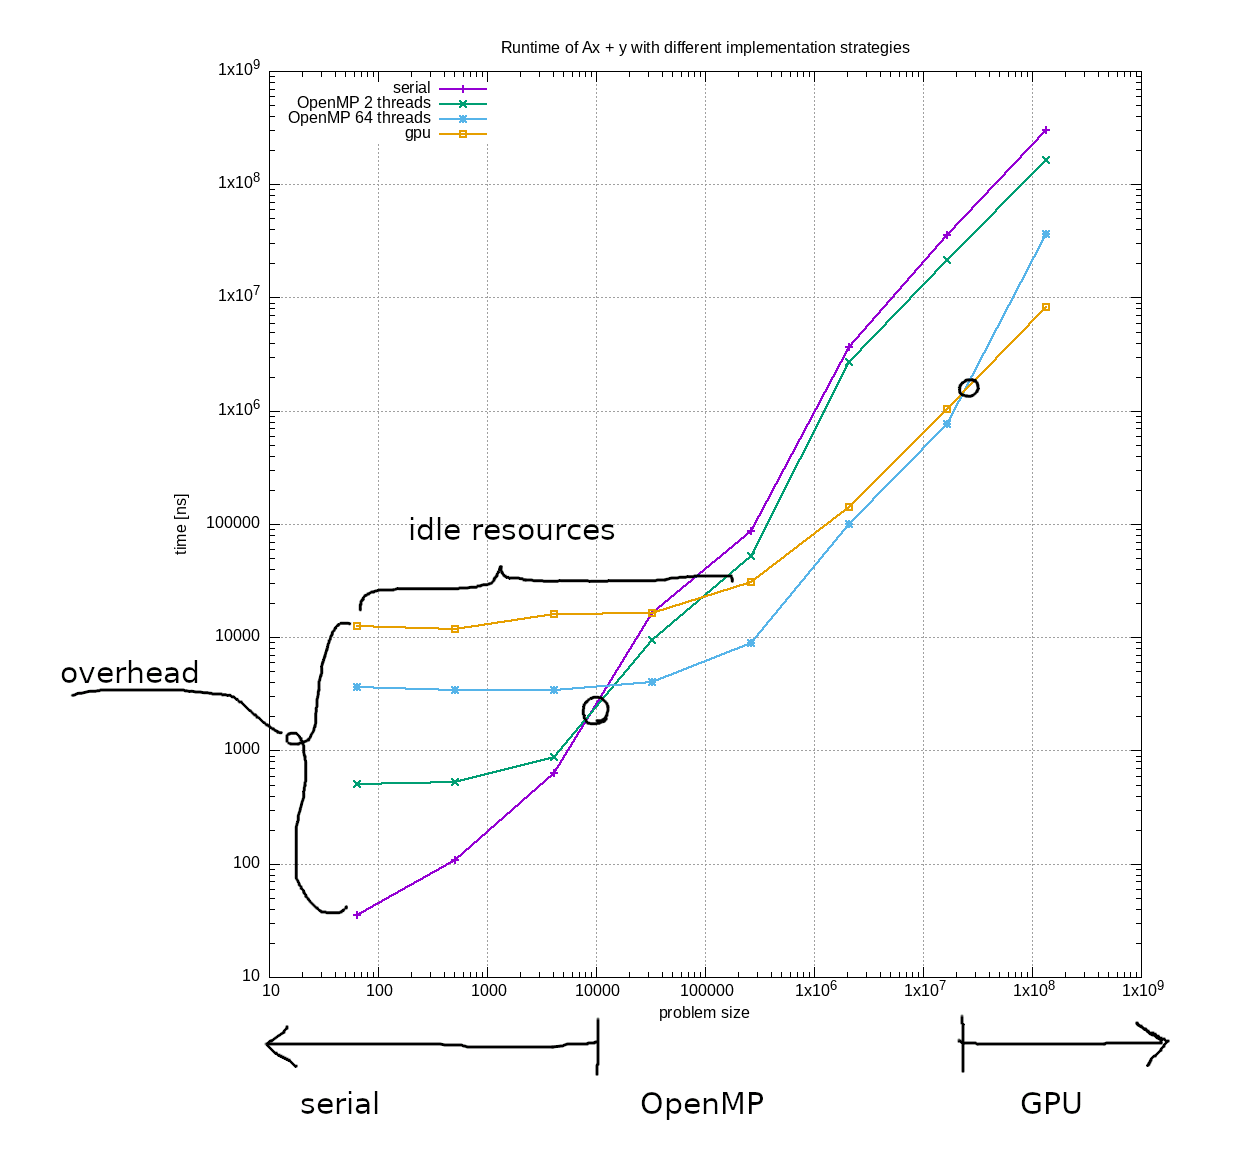
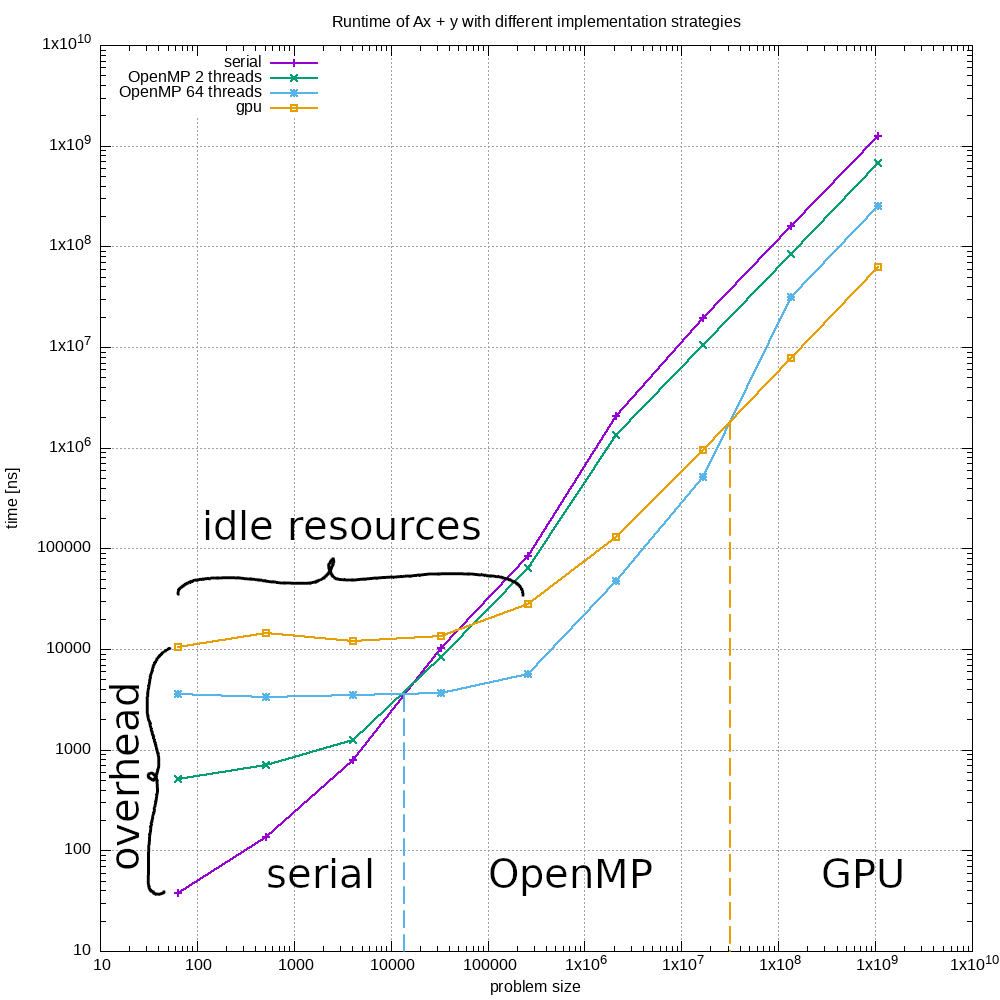
Change structure to allocate fewer times with GPU. Add printing to stderr so clang doensn't optimize out the calculations of the serialized version

diff --git a/application-performance/demos/idle_resources/common.h b/application-performance/demos/idle_resources/common.h
@@ -9,38 +9,54 @@
 #include <ratio>
 #include <vector>
 
-template <typename T> constexpr void saxpy(size_t i, T a, T *x, T *y) {
-    y[i] += a * x[i];
+template <typename T> constexpr void saxpy(size_t i, T a, T *x, T *y, T *r) {
+    r[i] = a * x[i] + y[i];
 }
 
-template <typename Func> void run(Func f) {
-    constexpr std::array ns{1 << 6,  1 << 9,  1 << 12, 1 << 15,
-                            1 << 18, 1 << 21, 1 << 24, 1 << 27};
-    constexpr auto max_n = *std::max_element(ns.begin(), ns.end());
-    std::vector<float> x(max_n);
-    std::vector<float> y(max_n);
-    constexpr float a = 2.3f;
-    constexpr float b = 1.1f;
-    constexpr float c = 3.4f;
+template <typename T> constexpr void init_x(size_t i, T *x) {
+    x[i] = (T)2.3 * sin(i);
+}
 
-    for (size_t i = 0; i < max_n; i++) {
-        x[i] = a * sin(i);
+template <typename T> constexpr void init_y(size_t i, T *y) {
+    y[i] = (T)1.1 * cos(i);
+}
+
+template <typename T> void init(size_t n, T *x, T *y) {
+    for (size_t i = 0; i < n; i++) {
+        init_x(i, x);
+        init_y(i, y);
     }
+}
+
+template <typename Allocate, typename Deallocate, typename Init, typename Func>
+void run(Allocate allocate, Deallocate deallocate, Init init, Func func) {
+    constexpr std::array ns{1 << 6,  1 << 9,  1 << 12, 1 << 15, 1 << 18,
+                            1 << 21, 1 << 24, 1 << 27, 1 << 30};
+    constexpr size_t max_n = *std::max_element(ns.begin(), ns.end());
+    constexpr size_t num_bytes = sizeof(float) * max_n;
+
+    float *const x = static_cast<float *>(allocate(num_bytes));
+    float *const y = static_cast<float *>(allocate(num_bytes));
+    float *const r = static_cast<float *>(allocate(num_bytes));
+    init(max_n, x, y);
 
     for (size_t n : ns) {
-        for (size_t i = 0; i < n; i++) {
-            y[i] = b * cos(i);
-        }
-
         constexpr auto n_iter = 20;
         size_t avg = 0;
-        for (uint32_t iteration = 0; iteration < n_iter; iteration++) {
-            const auto default_duration = f(n, c, x, y);
-            const std::chrono::duration<double, std::nano> dur =
-                default_duration;
+        for (auto iteration = 0; iteration < n_iter; iteration++) {
+            constexpr float a = 3.4f;
+            const auto start = std::chrono::high_resolution_clock::now();
+            func(n, a, x, y, r);
+            const auto end = std::chrono::high_resolution_clock::now();
+            const std::chrono::duration<double, std::nano> dur = end - start;
             avg += iteration == 0 ? 0 : dur.count();
         }
 
-        printf("%ld, %ld\n", n, avg / (n_iter - 1));
+        std::fprintf(stderr, "%f\n", r[n - 1]);
+        std::printf("%ld, %ld\n", n, avg / (n_iter - 1));
     }
+
+    deallocate(x);
+    deallocate(y);
+    deallocate(r);
 }

diff --git a/application-performance/demos/idle_resources/hip_saxpy.cpp b/application-performance/demos/idle_resources/hip_saxpy.cpp
@@ -1,39 +1,47 @@
 #include "common.h"
-#include <chrono>
+#include <cstddef>
 #include <hip/hip_runtime.h>
 
-__global__ void saxpy_(int n, float a, float *x, float *y)
-{
-    int tid = threadIdx.x + blockIdx.x * blockDim.x;
-    int stride = gridDim.x * blockDim.x;
+__global__ void saxpy_(size_t n, float a, float *x, float *y, float *r) {
+    size_t tid = threadIdx.x + blockIdx.x * blockDim.x;
+    const size_t stride = gridDim.x * blockDim.x;
 
     for (; tid < n; tid += stride) {
-        saxpy(tid, a, x, y);
+        saxpy(tid, a, x, y, r);
     }
 }
 
+__global__ void init_data(size_t n, float *x, float *y) {
+    size_t tid = threadIdx.x + blockIdx.x * blockDim.x;
+    const size_t stride = gridDim.x * blockDim.x;
+
+    for (; tid < n; tid += stride) {
+        init_x(tid, x);
+        init_y(tid, y);
+    }
+}
+
+void *gpu_allocate(size_t bytes) {
+    void *p = nullptr;
+    [[maybe_unused]] const auto result = hipMalloc(&p, bytes);
+    return p;
+}
+
+void gpu_free(void *p) { [[maybe_unused]] const auto result = hipFree(p); }
+
+void gpu_init(size_t n, float *x, float *y) {
+    constexpr dim3 blocks(32);
+    constexpr dim3 threads(256);
+    init_data<<<blocks, threads, 0, 0>>>(n, x, y);
+}
+
 int main() {
-    run([](auto n, auto a, auto &x, auto &y) -> auto {
-        // Setup code
-        const size_t num_bytes = n * sizeof(decltype(x.back()));
-        float *d_x = nullptr;
-        float *d_y = nullptr;
-        hipMalloc(reinterpret_cast<void **>(&d_x), num_bytes);
-        hipMalloc(reinterpret_cast<void **>(&d_y), num_bytes);
-        hipMemcpy(d_x, x.data(), num_bytes, hipMemcpyHostToDevice);
-        hipMemcpy(d_y, y.data(), num_bytes, hipMemcpyHostToDevice);
+    run(gpu_allocate, gpu_free, gpu_init,
+        [](auto n, auto a, auto *x, auto *y, auto *r) -> auto {
+            constexpr dim3 blocks(32);
+            constexpr dim3 threads(256);
 
-        const dim3 blocks(32);
-        const dim3 threads(256);
-
-        const auto c_start = std::chrono::high_resolution_clock::now();
-        saxpy_<<<blocks, threads, 0, 0>>>(n, a, d_x, d_y);
-        hipDeviceSynchronize();
-        const auto c_end = std::chrono::high_resolution_clock::now();
-
-        hipFree(d_x);
-        hipFree(d_y);
-
-        return c_end - c_start;
-    });
+            saxpy_<<<blocks, threads, 0, 0>>>(n, a, x, y, r);
+            [[maybe_unused]] const auto result = hipDeviceSynchronize();
+        });
 }

diff --git a/application-performance/demos/idle_resources/omp_saxpy.cpp b/application-performance/demos/idle_resources/omp_saxpy.cpp
@@ -1,16 +1,12 @@
 #include "common.h"
-#include <chrono>
+#include <cstddef>
 
 int main() {
-    run([](auto n, auto a, auto &x, auto &y) -> auto {
-        const auto c_start = std::chrono::high_resolution_clock::now();
-
+    run(malloc, free, init<float>,
+        [](auto n, auto a, auto *x, auto *y, auto *r) -> auto {
 #pragma omp parallel for
-        for (size_t i = 0; i < n; i++) {
-            saxpy(i, a, x.data(), y.data());
-        }
-
-        const auto c_end = std::chrono::high_resolution_clock::now();
-        return c_end - c_start;
-    });
+            for (size_t i = 0; i < n; i++) {
+                saxpy(i, a, x, y, r);
+            }
+        });
 }

diff --git a/application-performance/demos/idle_resources/serial_saxpy.cpp b/application-performance/demos/idle_resources/serial_saxpy.cpp
@@ -1,15 +1,11 @@
 #include "common.h"
-#include <chrono>
+#include <cstddef>
 
 int main() {
-    run([](auto n, auto a, auto &x, auto &y) -> auto {
-        const auto c_start = std::chrono::high_resolution_clock::now();
-
-        for (size_t i = 0; i < n; i++) {
-            saxpy(i, a, x.data(), y.data());
-        }
-
-        const auto c_end = std::chrono::high_resolution_clock::now();
-        return c_end - c_start;
-    });
+    run(malloc, free, init<float>,
+        [](auto n, auto a, auto *x, auto *y, auto *r) -> auto {
+            for (size_t i = 0; i < n; i++) {
+                saxpy(i, a, x, y, r);
+            }
+        });
 }
